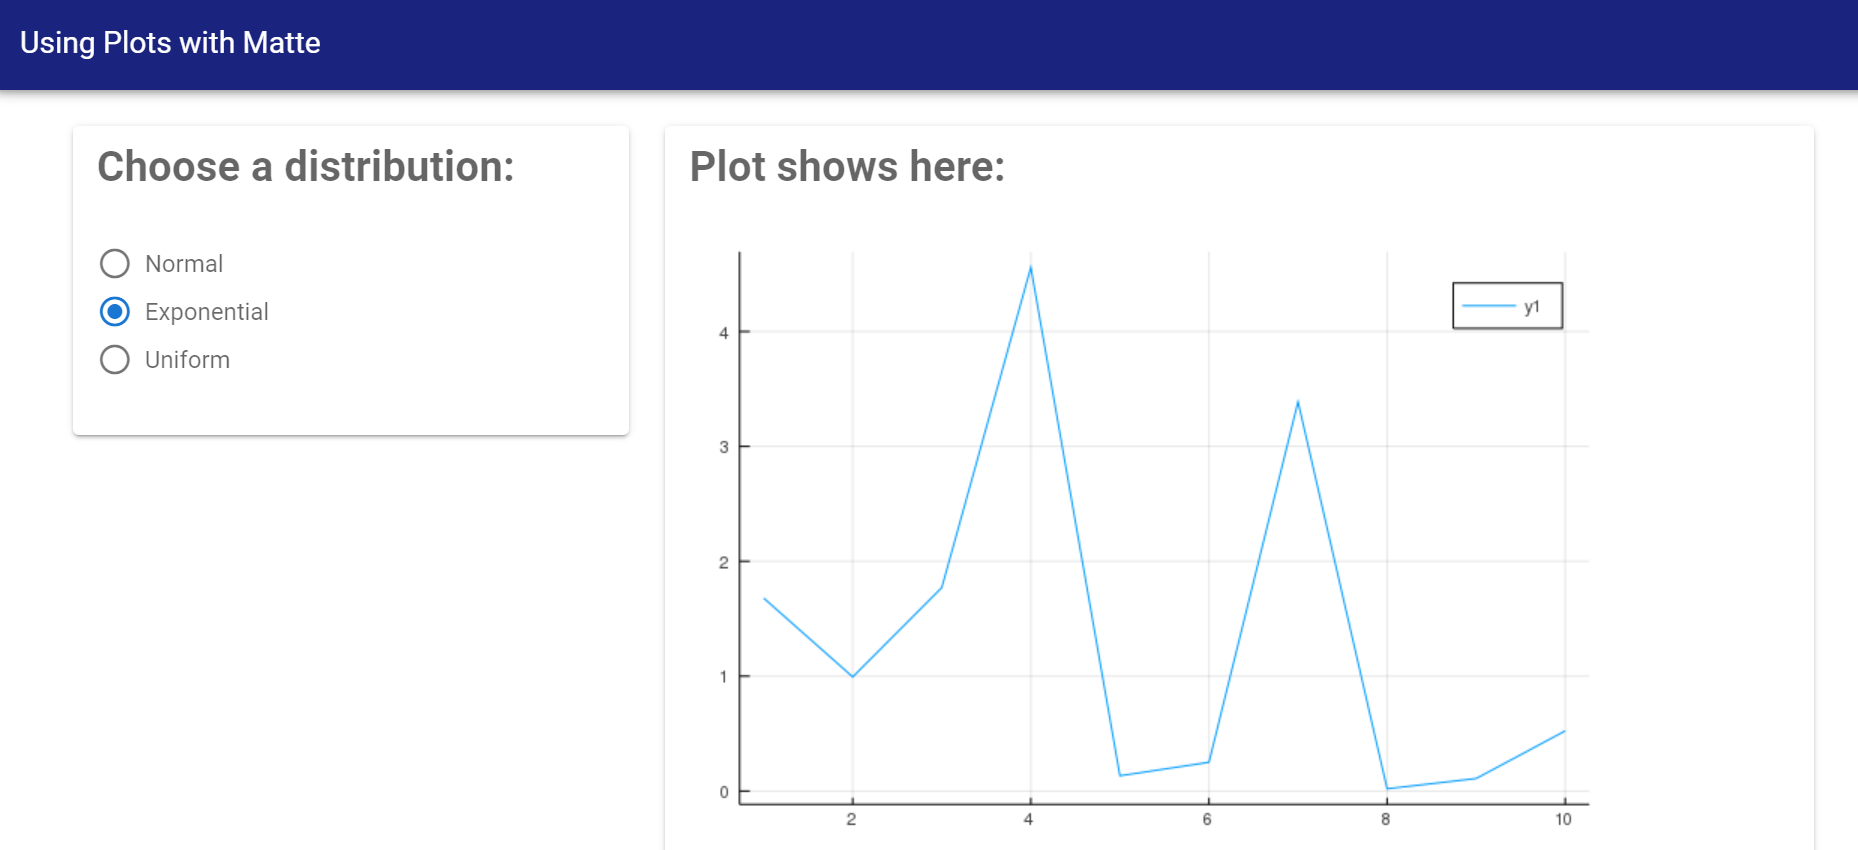
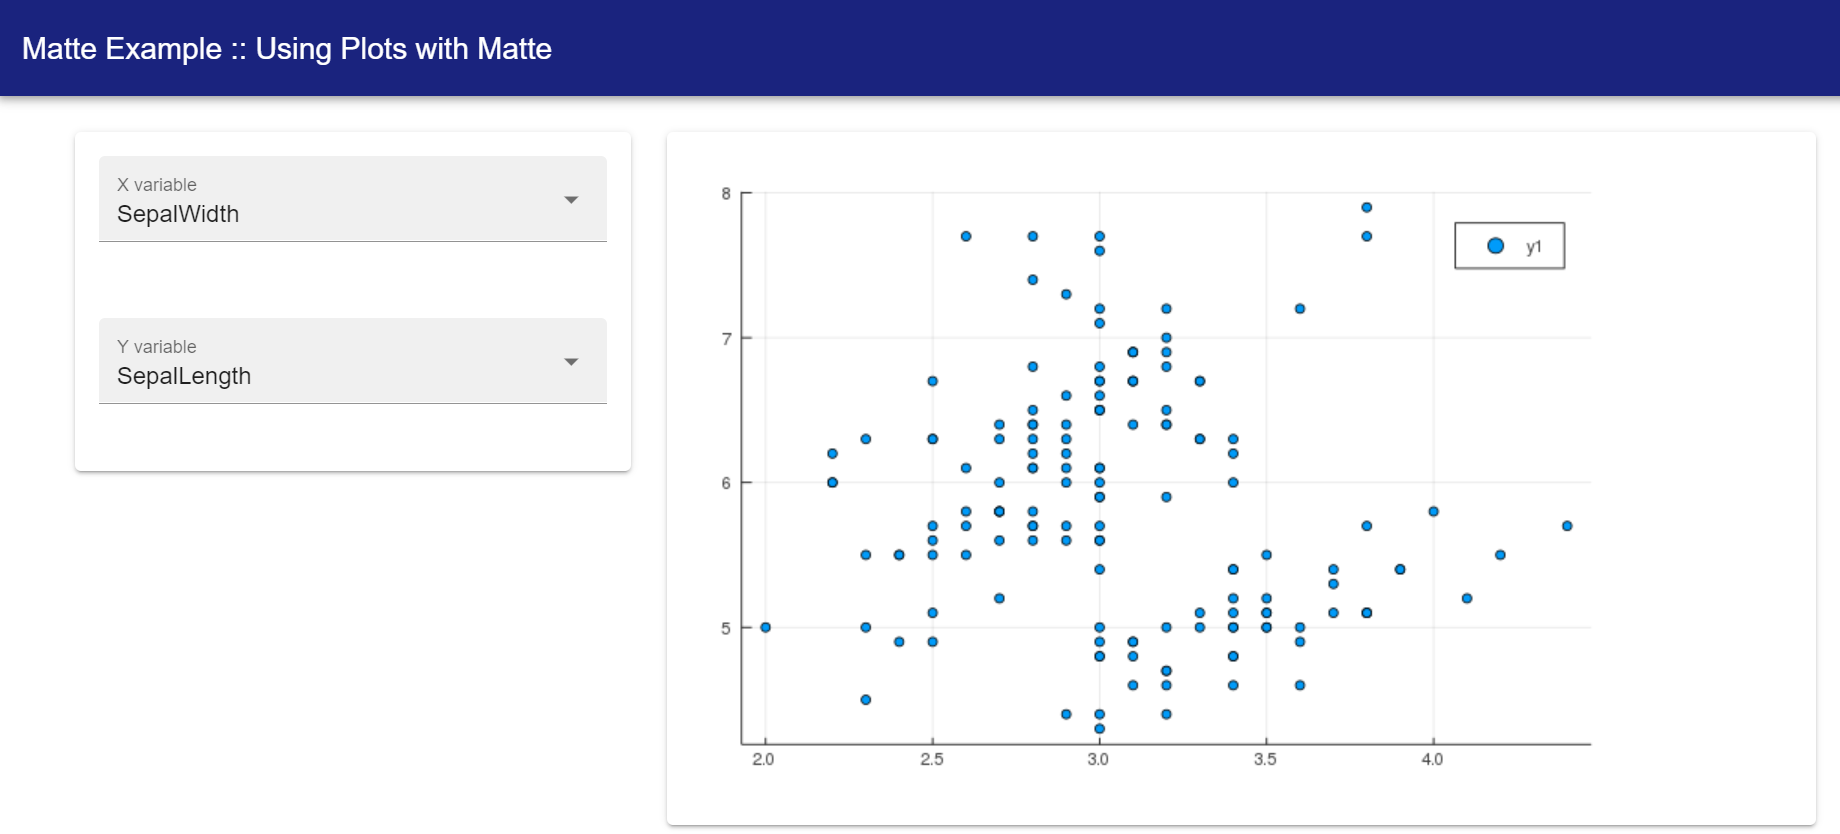
Change plots example to be a bit more interesting (using iris dataset)

diff --git a/docs/src/g05b-plots.md b/docs/src/g05b-plots.md
@@ -24,7 +24,7 @@ This takes a single argument, which is the `id` of the output (which, of course,
 to a function in the `Server` module).
 
 You can see this element in the `main_panel` of the provided example, where we have given it
-the `id` of `my_plot`:
+the `id` of `output_plot`:
 ```
 function ui()
 sidebar_layout(
@@ -33,7 +33,7 @@ sidebar_layout(
       ),
       main_panel(
           ...
-          plots_output("my_plot")
+          plots_output("output_plot")
       )
   )
 end
@@ -41,44 +41,41 @@ end
 
 ## Plots on the backend
 
-As with all Matte outputs elements, we need a function in the `Server` module called `my_plot`,
+As with all Matte outputs elements, we need a function in the `Server` module called `output_plot`,
 since this is the `id` we gave to `plots_output`. This function should return a `Plots.jl`
 plot.
 
-In the included example, we are using an input variable called `use_dist` to allow the user
-to pick a distribution to sample from. This isn't particularly interesting, but provides a
-little interactivity for the example.
+In the included example, we are using two input variables `xvar` and `yvar` to allow the user
+to pick which features of the `iris` dataset to plot. This isn't particularly interesting,
+but provides a little interactivity for the example.
 
 ```
-function my_plot(use_dist)
-    if use_dist != nothing
-        if use_dist == "Normal"
-            y = Random.randn(10)
-        elseif use_dist == "Exponential"
-            y = Random.randexp(10)
-        else
-            y = rand(10)
-        end
-        plot(1:10, y)
+using Plots
+using RDatasets
+iris = dataset("datasets", "iris")
+
+function output_plot(xvar, yvar)
+    if typeof(xvar) <: AbstractString && typeof(yvar) <: AbstractString
+        plot(iris[!, Symbol(xvar)], iris[!, Symbol(yvar)], seriestype=:scatter)
     end
 end
 ```
 
-The first part of the function checks whether the user has made a selection for `use_dist`,
-if so, it draws to values from the chosen distribution and saves the values in `y`.
+The first part of the function checks whether the user has made a selection for both `xvar`
+and `yvar`. If so, it creates the plot.
 
 The key part is:
 ```
-plot(1:10, y)
+plot(iris[!, Symbol(xvar)], iris[!, Symbol(yvar)], seriestype=:scatter)
 ```
 
-This creates a `Plots.jl` plot, plotting `1:10` on the x-axis and our sampled `y` values the
-y-axis.
+This creates a `Plots.jl` plot, plotting the `xvar` columns on the x-axis and the `yvar`
+column on the y-axis.
 
 This function creates and returns a `Plots.jl` plot. Alternatively, if the user hasn't yet
 selected a distribution to draw from, the function returns `nothing`, which tells Matte not
 to update the UI. This is a helpful pattern for plots because it allows you to delay
-re-rendering of the plot until certain conditions are met (more on that in the next two guides).
+re-rendering of the plot until certain conditions are met (more on that in the next guides).
 
 ## Trying it out
 
@@ -90,7 +87,7 @@ Once you select a species to filter by, you'll see something like this:
 The plot may take a moment to show, particularly if you haven't used `Plots` in your session
 yet, as Julia has to compile `Plots` before it can display anything.
 
-In the [next](@ref g06a-server-side-state) [two](@ref g06b-side-effects) guides, we look at how to have persistent
-server-side vairables and how to change the UI from within other functions. This is an
-introduction to the helpful pattern that follows in the final guide
+In the [next](@ref g06a-server-side-state) [two](@ref g06b-side-effects) guides, we look at
+how to have persistent server-side variables and how to change the UI from within other
+functions. This is an introduction to the helpful pattern that follows in the final guide
 [handling long-running computations](@ref g07-long-running-computations)

diff --git a/README.md b/README.md
@@ -4,6 +4,9 @@
 ![CI](https://github.com/angusmoore/Matte.jl/workflows/CI/badge.svg)
 [![codecov.io](http://codecov.io/github/angusmoore/Matte.jl/coverage.svg?branch=master)](http://codecov.io/github/angusmoore/Matte.jl?branch=master)
 
+[![](https://img.shields.io/badge/docs-stable-blue.svg)](https://angusmoore.github.io/Matte.jl/stable)
+[![](https://img.shields.io/badge/docs-dev-blue.svg)](https://angusmoore.github.io/Matte.jl/dev)
+
 Matte is a julia library for julia-powered dashboards, inspired by Google's material design.
 Matte makes it easy to convert your existing julia code into a beautiful and powerful dashboard
 for end users.
@@ -18,8 +21,7 @@ TBC
 
 ### Installation
 
-Matte is not yet registered in the julia general repository. To install the latest release
-run the following from the `Pkg` repl (type `]` to get there):
+To install the latest release run the following from the `Pkg` repl (type `]` to get there):
 ```
 pkg> add Matte
 ```
